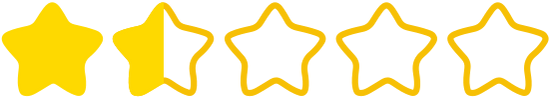
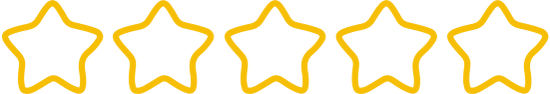
Implemented with ajax the payment page and fixed the 0_star image

diff --git a/js/payment.js b/js/payment.js
@@ -1,0 +1,145 @@
+import * as utils from './utils.js';
+const url = utils.API_DIR + "payment.php";
+displayMainContent();
+
+async function displayMainContent() {
+    generateMainContent(await utils.makePostRequest(url, new FormData()));
+}
+
+function generateMainContent(result) {
+    // <section>
+    //     <h2>Pagamento</h2>
+    //     <!-- Rifai vedere somma -->
+    //     <p>Totale articoli: ${result['total']} €</p>
+    //     <p>Costi di spedizione: 2</p>
+    //     <strong>Totale da pagare:</strong>
+    //     <p>Consegna prevista:<p>
+    //     <p>Via Cesare Pavese, 50, 47521 Cesena FC<p>
+    
+    //     <form>dati pagamento</form>
+    // </section>
+
+    document.querySelector('main').innerHTML = "";
+
+    const section = document.createElement('section');
+
+    const h2 = document.createElement('h2');
+    h2.textContent = 'Pagamento';
+
+    const p1 = document.createElement('p');
+    p1.textContent = "Totale articoli: " + result['total'] + ' €';
+
+    const deliveryCosts = 2*result['num_products'];
+    const p2 = document.createElement('p');
+    p2.textContent = "Costi di spedizione: " + deliveryCosts + ' €';
+
+    const strong = document.createElement('strong');
+    strong.textContent = 'Totale da pagare: ' + (result['total'] + deliveryCosts) + ' €';
+    
+    const options = {'weekday': 'long', 'month': 'long', 'day': '2-digit'};
+    const date = new Date(new Date().setDate(new Date().getDate() + 1)).toLocaleString('it-IT', options);
+    const p3 = document.createElement('p');
+    p3.innerText = "Consegna prevista per: " + date;
+
+    const p4 = document.createElement('p');
+    p4.innerText = 'Via Cesare Pavese, 50, 47521 Cesena FC';
+
+    section.appendChild(h2);
+    section.appendChild(p1);
+    section.appendChild(p2);
+    section.appendChild(p3);
+    section.appendChild(p4);
+    section.appendChild(generateInteractionForm());
+    
+    document.querySelector('main').appendChild(section);
+}
+
+function generateInteractionForm() {
+    // <form action="" method="POST">
+    //     <p>errori</p>
+    //     <label for="n_card">Numero carta:</label>
+    //     <input type="text" id="n_card" name="card_number" inputmode="numeric" pattern="\d{16}" minlength="16" maxlength="16" required/></br>
+    //     <label for="exp_date">Data di scadenza:</label>
+    //     <input type="month" id="exp_date" name="expire_date" min="<?php echo date("Y") ?>-<?php echo date("m")?>" max="<?php echo date("Y")+10?>-<?php echo date("m")?>" required/></br>
+    //     <label for="ccv">CCV:</label>
+    //     <input type="text" id="ccv" name="ccv" inputmode="numeric" pattern="\d{3}" maxlength="3" required/></br>
+    //     <input type="submit" value="Acquista ora">
+    // </form>
+
+    const form = document.createElement('form');
+    const p = document.createElement('p');
+
+    const label1 = document.createElement('label');
+    label1.setAttribute('for', 'n_card');
+    label1.textContent = 'Numero carta: ';
+
+    const input1 = document.createElement('input');
+    input1.type = 'text';
+    input1.id = 'n_card';
+    input1.name = 'n_card';
+    input1.inputMode = 'numeric';
+    input1.pattern = '\\d{16}';
+    input1.minLength = 16;
+    input1.maxLength = 16;
+    input1.required = true;
+
+    const label2 = document.createElement('label');
+    label2.setAttribute('for', 'exp_date');
+    label2.textContent = 'Data di scadenza: ';
+
+    const input2 = document.createElement('input');
+    input2.type = 'month';
+    input2.id = 'exp_date';
+    input2.name = 'expire_date';
+    input2.min = new Date().getFullYear() + "-" + String(new Date().getMonth() + 1).padStart(2, '0');
+    input2.max = (new Date().getFullYear() + 10) + "-" + String(new Date().getMonth() + 1).padStart(2, '0');
+    input2.required = true;
+
+    const label3 = document.createElement('label');
+    label3.setAttribute('for', 'ccv');
+    label3.textContent = 'CCV: ';
+
+    const input3 = document.createElement('input');
+    input3.type = 'text';
+    input3.id = 'ccv';
+    input3.name = 'ccv';
+    input3.inputMode = 'numeric';
+    input3.pattern = '\\d{3}';
+    input3.maxLength = 3;
+    input3.required = true;
+
+    const inputButotn = document.createElement('input');
+    inputButotn.type = 'submit';
+    inputButotn.value = 'Acquista ora';
+
+    form.appendChild(p);
+    form.appendChild(label1);
+    form.appendChild(input1);
+    form.appendChild(document.createElement('br'));
+    form.appendChild(label2);
+    form.appendChild(input2);
+    form.appendChild(label3);
+    form.appendChild(input3);
+    form.appendChild(document.createElement('br'));
+    form.appendChild(inputButotn);
+
+    form.addEventListener('submit', async (event) => {
+        event.preventDefault();
+        console.log('n_card: ' + input1.value + ', exp_date: ' + input2.value + ', ccv: ' + input3.value);
+
+        const formData = new FormData();
+        formData.append('card_number', input1.value);
+        formData.append('expire_date', input2.value);
+        formData.append('ccv', input3.value);
+        const json = await utils.makePostRequest(url, formData);
+        if (json['hasOrdered']) {
+            alert('Ordine effettuato');
+            document.location = utils.PAGES_DIR + 'orders.php';
+        } else {
+            document.querySelector('main form p').innerText = 'Errore durante il pagamento!';
+            generateMainContent(json);
+        }
+    });
+
+    return form;
+}

diff --git a/api/payment.php b/api/payment.php
@@ -1,0 +1,24 @@
+<?php
+require_once("../database/init.php");
+
+$totalPrice = 0.00;
+foreach ($dbh->getCart() as $product) {
+    if ($product["offerta"] > 0) {
+        $totalPrice += ($product["prezzo"] - $product["prezzo"]*($product["offerta"]/100)) * $product['quantita'];
+    } else {
+        $totalPrice += ($product['prezzo']) * $product['quantita'];
+    }
+}
+$result['total'] = $totalPrice;
+$result['num_products'] = count($dbh->getCart());
+$result['hasOrdered'] = false;
+
+if(isset($_POST["card_number"]) && isset($_POST["expire_date"]) && isset($_POST["ccv"])){
+    $result['hasOrdered'] = true;
+    $dbh->createOrder("venditore@negozio.it");
+}
+
+header('Content-Type: application/json');
+echo json_encode($result);
+
+?>

diff --git a/pages/payment.php b/pages/payment.php
@@ -1,17 +1,8 @@
 <?php
 require_once("../database/init.php");
-$templateParams["titolo"] = "Errore";
-$templateParams["main_content"] = ["user/payment.php"];
-
-if(isset($_POST['tot'])) {
-    $templateParams["titolo"] = "Pagamento";
-    $templateParams["tot"] = $_POST['tot'];
-} elseif(isset($_POST["card_number"]) && isset($_POST["expire_date"]) && isset($_POST["ccv"])){
-    $dbh->createOrder("venditore@negozio.it");
-    //Alert ordine effettuato con successo
-    header("Location: orders.php");
-}
-
+$templateParams["titolo"] = "Pagamento";
+// $templateParams["main_content"] = ["user/payment.php"];
+$templateParams['js'] = [JAVASCRIPT_DIR.'payment.js'];
 
 require("../template/base.php")
 ?>
